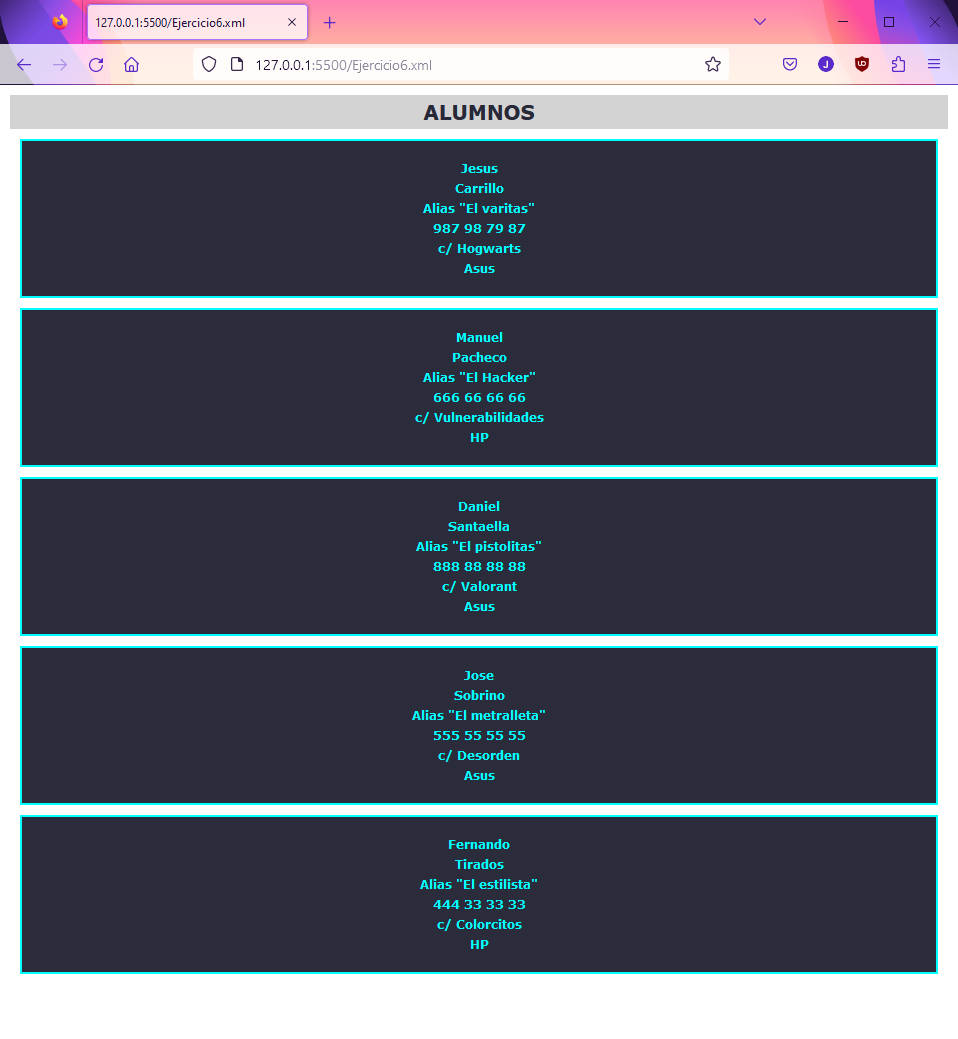
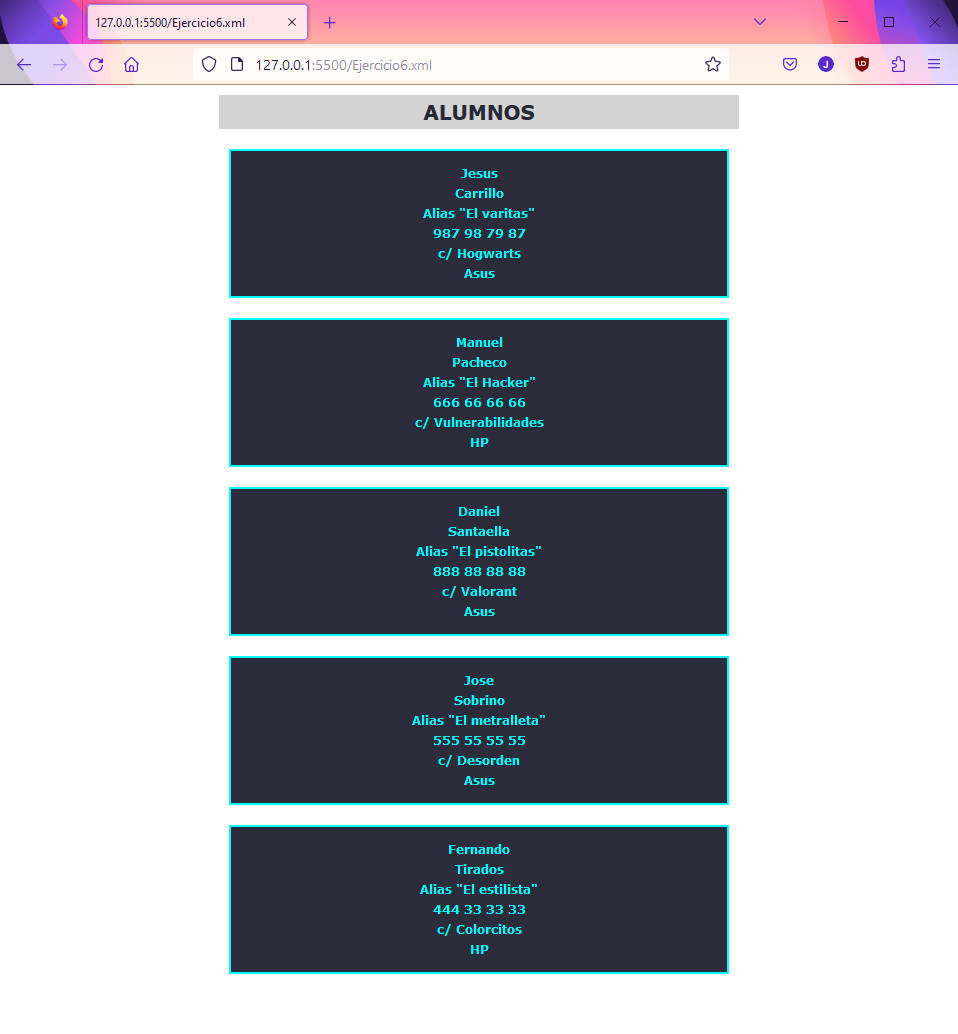
update practica 11 LM

diff --git a/LM/Trimestre2/Tema 11/Ej6.css b/LM/Trimestre2/Tema 11/Ej6.css
@@ -2,7 +2,6 @@
     box-sizing: border-box;
     display: block;
 }
-clase{margin: 10px;}
 clase:before{
     content: "ALUMNOS";
     display: flex;
@@ -15,11 +14,18 @@ clase:before{
     background-color: lightgray;
     padding: 5px;
 }
+clase{
+    display: grid;
+    justify-content: center;
+    margin: 10px;
+}
 persona{
     background-color: rgba(20, 21, 38, 0.9);
     border: solid 2px aqua;
     color: white;
-    padding: 15px;margin: 10px;
+    padding: 10px;
+    margin: 10px;
+    width: 500px;
 }
 nombre, primerApellido, alias, telefono, direccion, marcaOrdernador{
     display: flex;
